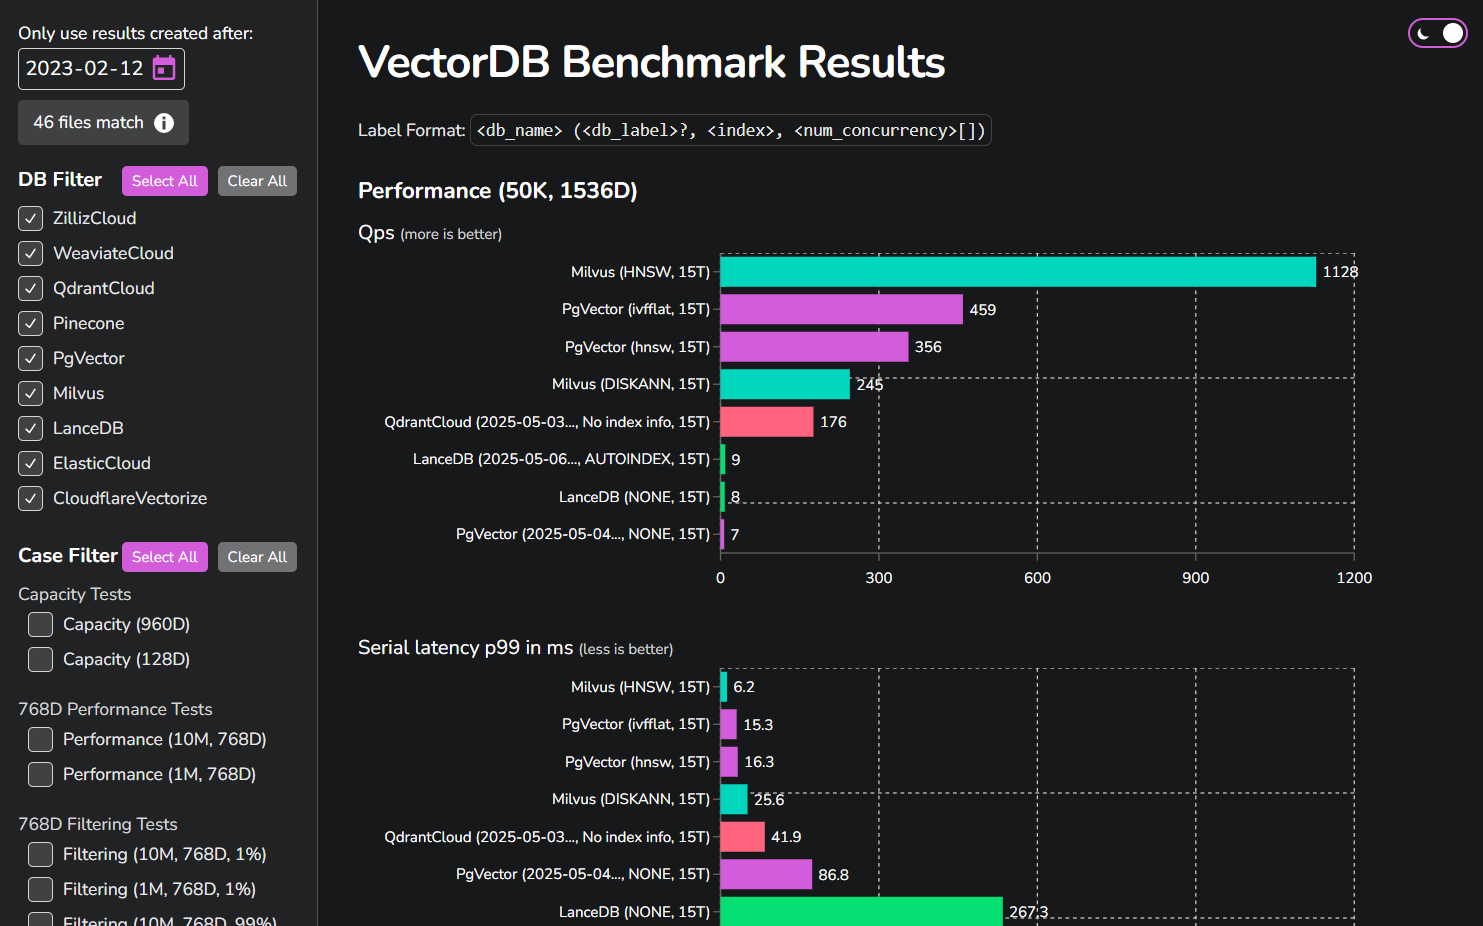
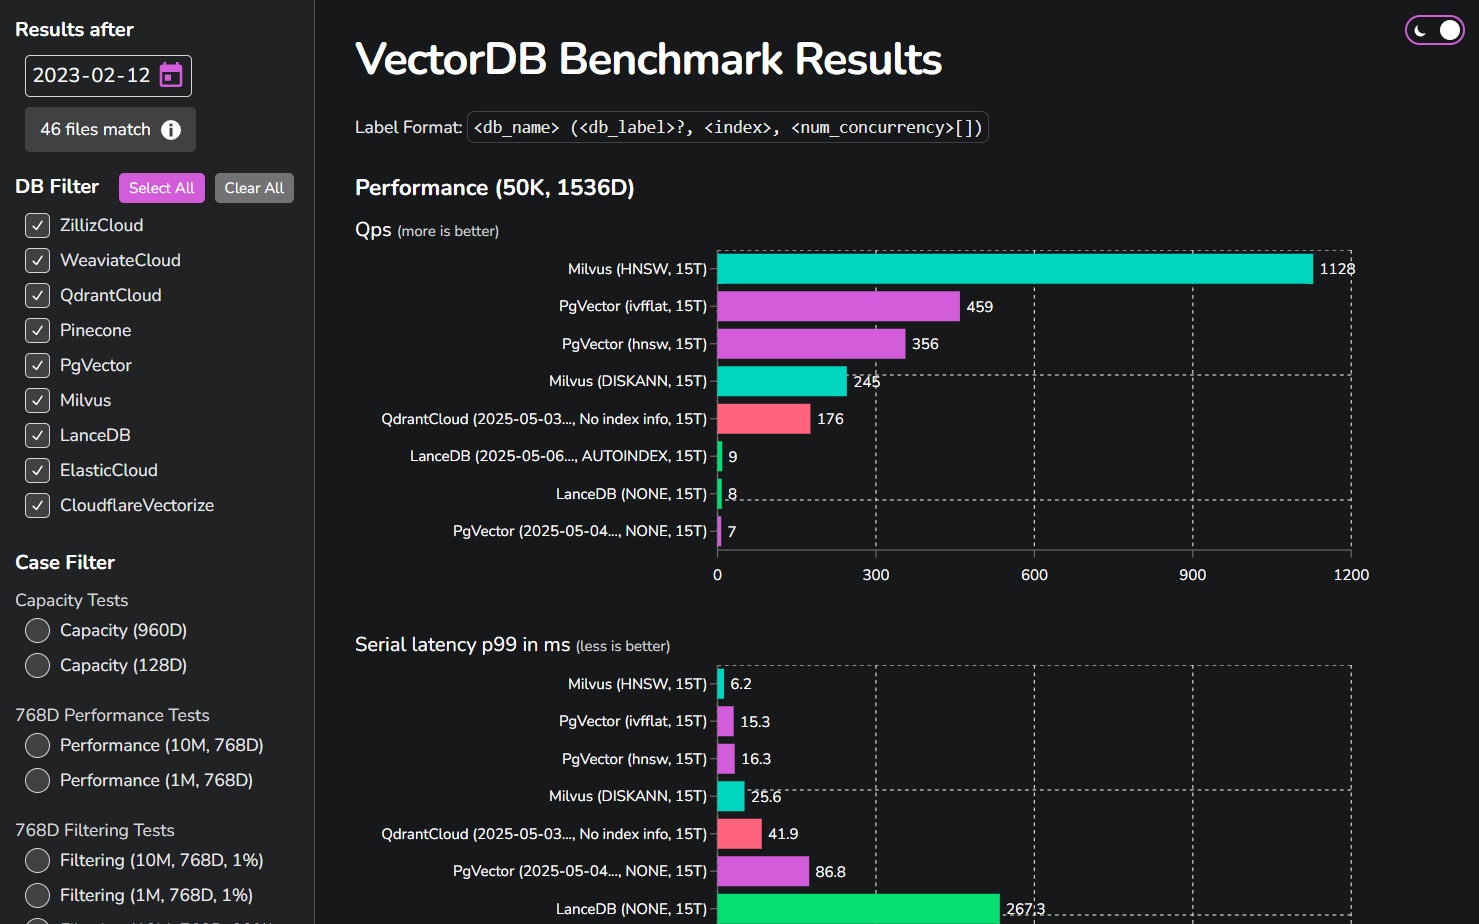
Radiobox instead of Checkbox for case filter

diff --git a/src/components/Filters.tsx b/src/components/Filters.tsx
@@ -7,13 +7,14 @@ import { caseLabels } from "../client-utils/constants";
 import { FileListTooltip } from "./FileListTooltip";
 import { Checkbox } from "./Checkbox";
 import { InfoIcon } from "./InfoIcon";
-
+import { Radiobox } from "./Radiobox";
+import { RadioGroup } from "radix-ui";
 interface FiltersProps {
   dbNames: Results["dbNames"];
   caseIds: Results["caseIds"];
   onFiltersChange: (
     selectedDbs: string[],
-    selectedCases: number[],
+    selectedCase: number,
     startDate?: Date,
   ) => void;
   fileCount?: number;
@@ -61,37 +62,36 @@ export const Filters = ({
     "dbNames",
     { defaultValue: dbNames },
   );
-  const [selectedCases, setSelectedCases] = useLocalStorageState<number[]>(
-    "caseNames",
-    { defaultValue: caseIds },
-  );
+  const [selectedCase, setSelectedCase] = useLocalStorageState<number>("case", {
+    defaultValue: caseIds[0]!,
+  });
   const [startDate, setStartDate] = useLocalStorageState<string>("startDate", {
     defaultValue: START_DATE,
   });
   const previousDbs = useRef(selectedDbs);
-  const previousCases = useRef(selectedCases);
+  const previousCase = useRef(selectedCase);
   const previousStartDate = useRef(startDate);
   const [isInitialized, setIsInitialized] = useState(false);
 
   useEffect(() => {
     if (!isInitialized) {
-      onFiltersChange(selectedDbs, selectedCases, new Date(startDate));
+      onFiltersChange(selectedDbs, selectedCase, new Date(startDate));
       setIsInitialized(true);
     }
-  }, [isInitialized, onFiltersChange, selectedDbs, selectedCases, startDate]);
+  }, [isInitialized, onFiltersChange, selectedDbs, selectedCase, startDate]);
 
   useEffect(() => {
     if (
       previousDbs.current !== selectedDbs ||
-      previousCases.current !== selectedCases ||
+      previousCase.current !== selectedCase ||
       previousStartDate.current !== startDate
     ) {
-      onFiltersChange(selectedDbs, selectedCases, new Date(startDate));
+      onFiltersChange(selectedDbs, selectedCase, new Date(startDate));
       previousDbs.current = selectedDbs;
-      previousCases.current = selectedCases;
+      previousCase.current = selectedCase;
       previousStartDate.current = startDate;
     }
-  }, [selectedDbs, selectedCases, startDate, onFiltersChange]);
+  }, [selectedDbs, selectedCase, startDate, onFiltersChange]);
 
   const handleDbToggle = (dbName: string) => {
     const newSelection = selectedDbs.includes(dbName)
@@ -101,13 +101,9 @@ export const Filters = ({
     setSelectedDbs(newSelection);
   };
 
-  const handleCaseToggle = (caseName: number) => {
-    const newSelection = selectedCases.includes(caseName)
-      ? selectedCases.filter((c) => c !== caseName)
-      : [...selectedCases, caseName];
-
-    setSelectedCases(newSelection);
-  };
+  // const handleCaseToggle = (caseName: number) => {
+  //   setSelectedCase(caseName);
+  // };
 
   const handleStartDateChange = (e: React.ChangeEvent<HTMLInputElement>) => {
     if (e.target.value === "") {
@@ -125,14 +121,6 @@ export const Filters = ({
     setSelectedDbs([]);
   };
 
-  const selectAllCases = () => {
-    setSelectedCases([...caseIds]);
-  };
-
-  const clearAllCases = () => {
-    setSelectedCases([]);
-  };
-
   // Generate list of available cases grouped by category
   const getGroupedCases = () => {
     const availableCaseIds = new Set(caseIds);
@@ -148,11 +136,9 @@ export const Filters = ({
 
   return (
     <div className="h-full bg-gray-50 p-4 border-r border-b border-gray-200 w-64 shrink-0 dark:bg-gray-800 dark:border-gray-600">
-      <div className="mb-4">
+      <h3 className="font-semibold mb-2">Results after</h3>
+      <div className="mb-4 pl-2">
         <div className="mb-2">
-          <label className="text-sm mb-1 mr-2">
-            Only use results created after:
-          </label>
           <input
             type="date"
             value={startDate}
@@ -187,7 +173,7 @@ export const Filters = ({
             </button>
           </div>
         </div>
-        <div className="flex flex-col">
+        <div className="flex flex-col pl-2">
           {dbNames.map((dbName) => (
             <Checkbox
               checked={selectedDbs.includes(dbName)}
@@ -200,41 +186,29 @@ export const Filters = ({
       </div>
 
       <div>
-        <div className="flex justify-between items-center mb-2">
-          <h3 className="font-semibold">Case Filter</h3>
-          <div>
-            <button
-              onClick={selectAllCases}
-              className="bg-primary text-white px-2 py-1 text-xs rounded mr-2"
-            >
-              Select All
-            </button>
-            <button
-              onClick={clearAllCases}
-              className="bg-gray-500 text-white px-2 py-1 text-xs rounded"
-            >
-              Clear All
-            </button>
-          </div>
-        </div>
+        <h3 className="font-semibold mb-2">Case Filter</h3>
 
-        {groupedCases.map((group) => (
-          <div key={group.title} className="mb-3">
-            <h4 className="text-sm font-medium mb-1 text-gray-700 dark:text-gray-300">
-              {group.title}
-            </h4>
-            <div className="flex flex-col pl-2">
-              {group.cases.map((caseId) => (
-                <Checkbox
-                  checked={selectedCases.includes(caseId)}
-                  onChange={() => handleCaseToggle(caseId)}
-                  label={caseLabels[caseId]}
-                  key={caseId}
-                />
-              ))}
+        <RadioGroup.Root
+          value={selectedCase.toString()}
+          onValueChange={(value) => setSelectedCase(parseInt(value, 10))}
+        >
+          {groupedCases.map((group) => (
+            <div key={group.title} className="mb-3">
+              <h4 className="text-sm font-medium mb-1 text-gray-700 dark:text-gray-300">
+                {group.title}
+              </h4>
+              <div className="flex flex-col pl-2">
+                {group.cases.map((caseId) => (
+                  <Radiobox
+                    label={caseLabels[caseId]}
+                    value={caseId.toString()}
+                    key={caseId}
+                  />
+                ))}
+              </div>
             </div>
-          </div>
-        ))}
+          ))}
+        </RadioGroup.Root>
       </div>
     </div>
   );

diff --git a/src/components/Results.tsx b/src/components/Results.tsx
@@ -12,12 +12,12 @@ import { ThemeToggle } from "./ThemeToggle";
 export const filterChartData = (
   data: ChartData[],
   selectedDbs: string[],
-  selectedCases: number[],
+  selectedCase: number,
   startDate?: Date,
 ): ChartData[] => {
   return data.filter((item) => {
     const dbFilter = selectedDbs.includes(item.db_name);
-    const caseFilter = selectedCases.includes(item.case_id);
+    const caseFilter = selectedCase === item.case_id;
     let dateFilter = true;
 
     if (startDate && item.fileDate) {
@@ -64,7 +64,7 @@ export function Results({ chartData, dbNames, caseIds }: ResultsType) {
 
   const handleFiltersChange = (
     newSelectedDbs: string[],
-    newSelectedCases: number[],
+    newSelectedCase: number,
     startDate?: Date,
   ) => {
     setCurrentStartDate(startDate);
@@ -72,7 +72,7 @@ export function Results({ chartData, dbNames, caseIds }: ResultsType) {
     const newData = filterChartData(
       chartData,
       newSelectedDbs,
-      newSelectedCases,
+      newSelectedCase,
       startDate,
     );
     setFilteredData(newData);
@@ -84,9 +84,9 @@ export function Results({ chartData, dbNames, caseIds }: ResultsType) {
         <Filters
           dbNames={dbNames}
           caseIds={caseIds}
-          onFiltersChange={(selectedDbs, selectedCases, startDate) => {
+          onFiltersChange={(selectedDbs, selectedCase, startDate) => {
             setTimeout(() => {
-              handleFiltersChange(selectedDbs, selectedCases, startDate);
+              handleFiltersChange(selectedDbs, selectedCase, startDate);
             }, 0);
           }}
           fileCount={fileCount}

diff --git a/src/components/Radiobox.tsx b/src/components/Radiobox.tsx
@@ -1,0 +1,19 @@
+"use client";
+
+import { RadioGroup } from "radix-ui";
+
+export function Radiobox({ label, value }: { label: string; value: string }) {
+  return (
+    <label className="flex items-center mb-2">
+      <RadioGroup.Item
+        className="flex size-[20px] appearance-none items-center justify-center rounded-full bg-white dark:bg-gray-700 border border-gray-300 dark:border-gray-300 outline-none hover:bg-gray-100 dark:hover:bg-gray-600 focus:ring-2 focus:ring-primary"
+        value={value}
+      >
+        <RadioGroup.Indicator className="after:block after:w-[7px] after:h-[7px] after:rounded-full after:bg-gray-700 dark:after:bg-white" />
+      </RadioGroup.Item>
+      <span className="ml-2 text-sm text-gray-700 dark:text-gray-200">
+        {label}
+      </span>
+    </label>
+  );
+}
